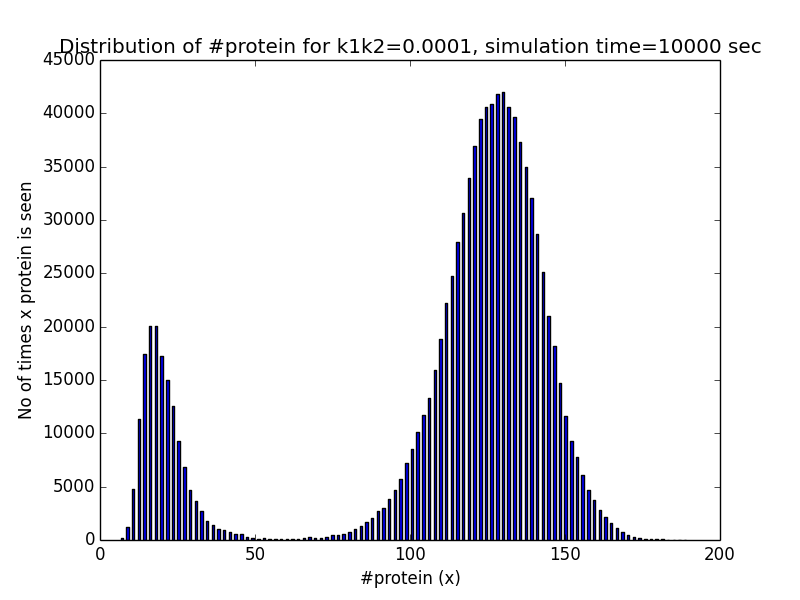
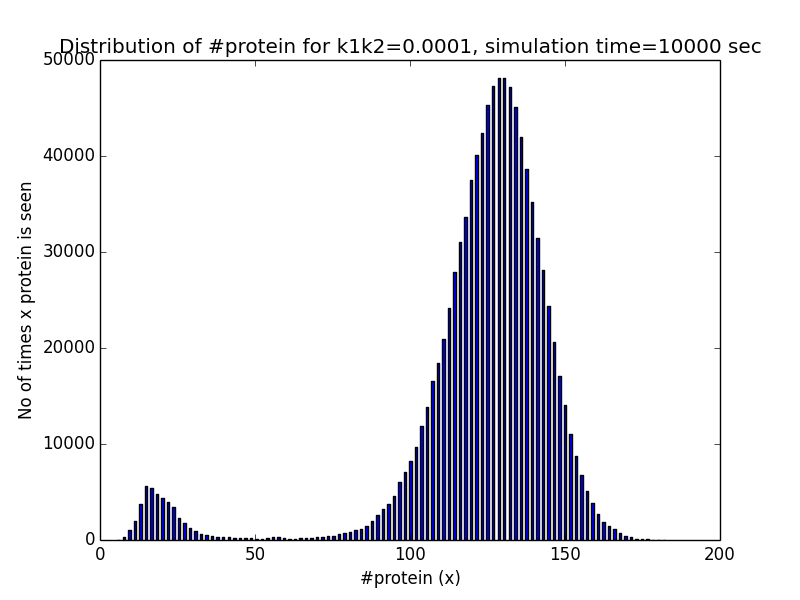
ready for server.
Former-commit-id: 2307ee05c937a83fa929a3cfbc66e2512522f15f
Former-commit-id: faccd2dd56007ebd60ac76be6209cb59d058e995

diff --git a/RandomnessInBiology_Monsoon_2014/Assignment07/solve.py b/RandomnessInBiology_Monsoon_2014/Assignment07/solve.py
@@ -1,7 +1,7 @@
 
 """solve.py: Soluting to homework 7.
 
-Last modified: Thu Oct 30, 2014  04:19PM
+Last modified: Thu Oct 30, 2014  07:27PM
 
 """
     
@@ -32,9 +32,10 @@ class GeneticSwitch():
         self.trajectories = []
         # Time when we read state B first time
         self.timeToCrossStateBFirstTime = []
-        self.stateBThreshold = 50.0
+        self.stateAThreshold = 20.0
+        self.stateBThreshold = 120.0
         self.stateBTimes = []
-        self.increasing = True
+        self.whichState = 0
 
     def reinit(self):
         self.x = self.initx
@@ -55,10 +56,14 @@ class GeneticSwitch():
 
     def wienerTerm(self, x, dt = None):
         """A wiener term """
+        # In some simulations, we might run out of random number. IN such case,
+        # start fetching the number from begining.
+
+        alphaIndex = self.currentStep % len(self.alpha)
         if dt is not None:
-            result = (self.dt**0.5) * self.alpha[self.currentStep] * self.g(x)
+            result = (self.dt**0.5) * self.alpha[alphaIndex] * self.g(x)
         else:
-            result = (self.step**0.5) * self.alpha[self.currentStep] * self.g(x)
+            result = (self.step**0.5) * self.alpha[alphaIndex] * self.g(x)
         return result
 
     def dxTerm(self, x, dt=None):
@@ -71,24 +76,44 @@ class GeneticSwitch():
         self.dx = dx
         return dx
 
-    def solveLangevian(self):
+    def solveLangevian(self, totalSteps = None):
         # Solving Langevian equations.
-        output = np.zeros(self.totalSteps)
-        for i, e in enumerate(range(self.totalSteps)):
+        if not totalSteps:
+            totalSteps = self.totalSteps
+        output = np.zeros(totalSteps)
+        for i, e in enumerate(range(totalSteps)):
             dx = self.dxTerm(self.x)
             wiener = self.wienerTerm(self.x)
-            if dx + wiener < 0.0:
-                self.increasing  = False
-            else:
-                self.increasing = True
             self.x += (dx + wiener)
             output[i] = self.x
-            if self.x >= self.stateBThreshold:
-                if self.increasing:
-                    self.stateBTimes.append(self.time)
             self.time += self.step
             self.currentStep += 1
         return output
+
+    def solveLangevianForTransitions(self, transitions):
+        """ Keep solving till we get enought transitions """
+        f = open("transition_time.txt", "a")
+        f.write("\n\n")
+        self.transitionTime = []
+        while len(self.transitionTime) < transitions:
+            dx = self.dxTerm(self.x)
+            wiener = self.wienerTerm(self.x)
+            self.x += (dx + wiener)
+            self.time += self.step
+            if self.x < self.stateAThreshold:
+                if self.whichState == 1:
+                    print("|| %s Transition High -> Log" % self.time)
+                    f.write("%s\n" % self.time)
+                    self.transitionTime.append(self.time)
+                self.whichState  = 0
+            elif self.x > self.stateBThreshold:
+                if self.whichState == 0:
+                    print("|| %s Transition Low -> High" % self.time)
+                    f.write("%s\n" % self.time)
+                    self.transitionTime.append(self.time)
+                self.whichState = 1
+            self.currentStep += 1
+        f.close()
 
     def run(self, step = 0.1, stop = 1000, ntimes = 1):
         self.step = step
@@ -149,11 +174,24 @@ class GeneticSwitch():
         else:
             plt.show()
 
-def main():
+    def transitions(self, step, noOfTransitions, thresholdA, thresholdB):
+        self.step = step
+        self.alpha = np.random.normal(0, 1.0,1e7)
+        self.stateAThreshold = thresholdA
+        self.stateBThreshold = thresholdB 
+        self.solveLangevianForTransitions(noOfTransitions)
+        print("Done")
+
+def main(problem = 1):
     gs = GeneticSwitch(k1k2=1e-4, init=0)
-    gs.run(step = 0.01, stop = 10000, ntimes = 1)
-    gs.plotTrajectories(save = True)
-    gs.plotHistogram( save = True)
+    print("++ Solving problem no {}".format(problem))
+    if problem == 1:
+        gs.run(step = 0.01, stop = 10000, ntimes = 1)
+        gs.plotTrajectories(save = True)
+        gs.plotHistogram( save = True)
+    elif problem == 3:
+        gs.transitions(step = 0.01, noOfTransitions = 100, thresholdA = 20,
+                thresholdB = 125)
 
 if __name__ == '__main__':
-    main()
+    main(3)
